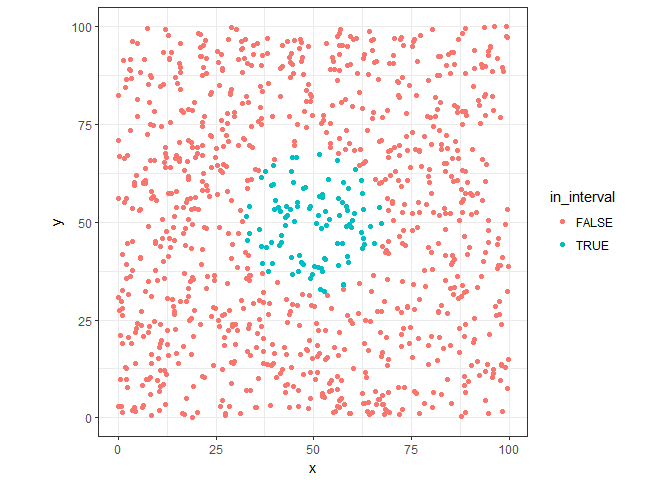
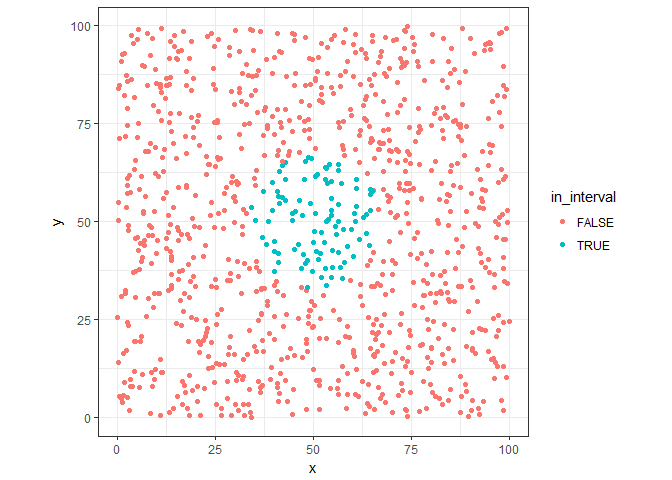
minor adjusts

diff --git a/Chapter01 - Intro/Course_of_Dimensionality.md b/Chapter01 - Intro/Course_of_Dimensionality.md
@@ -6,7 +6,7 @@ output:
     keep_md: true
 ---
 
-## Ond Dimension
+## One Dimension
 
 This R Notebook reproduces the _Course of Dimensionality_ that is defined as the increasing of the interval size to get 10% of the data acording with the increasing of dimentions. So acording more dimentions are add to the domain, greater is the size of the range to get the same proportion of datapoints. Conforming we increase the size of the range we lost "locality" of the information, losing the capacity to resume the information with a simple average.
 
@@ -47,7 +47,7 @@ x_dist
 
 ```
 ##      10% 
-## 9.233336
+## 9.743032
 ```
 
 We can see that in one dimention the size of the range necessary to get 10% of the datapoints are around 10% of this dimentions (uniform distributed)
@@ -81,12 +81,12 @@ dt %>%
 ```
 
 ```
-## [1] 94
+## [1] 103
 ```
 
 ## Two Dimension
 
-Now, lets see the case in two dimentions, firts we'll use the same interval found in one dimention case: ``9.2333364``, but in this case, we need to check points around ```(x=50, y=50)```.
+Now, lets see the case in two dimentions, firts we'll use the same interval found in one dimention case: ``9.7430323``, but in this case, we need to check points around ```(x=50, y=50)```.
 
 
 ```r
@@ -120,10 +120,10 @@ sel_points
 ```
 
 ```
-## [1] 32
+## [1] 34
 ```
 
-In fact, with the new distance, we can only reach 3.2 % of the datapoints adding one dimention. Can we find how much be the size of the radius to get 10% of the points?
+In fact, with the new distance, we can only reach 3.4 % of the datapoints adding one dimention. Can we find how much be the size of the radius to get 10% of the points?
 
 
 ```r
@@ -154,16 +154,17 @@ distCases %>%
   filter( pct <= .1 ) %>%
   filter( pct == max(pct) ) -> twoDim10pct
 
-twoDim10pct
+print(twoDim10pct)
 ```
 
-<div data-pagedtable="false">
-  <script data-pagedtable-source type="application/json">
-{"columns":[{"label":["dist"],"name":[1],"type":["int"],"align":["right"]},{"label":["points"],"name":[2],"type":["int"],"align":["right"]},{"label":["pct"],"name":[3],"type":["dbl"],"align":["right"]}],"data":[{"1":"18","2":"99","3":"0.099"}],"options":{"columns":{"min":{},"max":[10]},"rows":{"min":[10],"max":[10]},"pages":{}}}
-  </script>
-</div>
+```
+## # A tibble: 1 x 3
+##    dist points    pct
+##   <int>  <int>  <dbl>
+## 1    16     89 0.0890
+```
 
-The distance to get 10% of data points are 18 in size, almost twice the original range in one dimention.
+The distance to get 10% of data points are 16 in size, almost twice the original range in one dimention.
 
 
 ```r
@@ -180,7 +181,7 @@ ggplot(dt, aes(x=x, y=y, colour=in_interval)) +
   theme_bw()
 ```
 
-![](Course_of_Dimensionality_files/figure-html/unnamed-chunk-1-1.png)<!-- -->
+![](Course_of_Dimensionality_files/figure-html/twoDim20Pct-1.png)<!-- -->
 
 ## More dimentions
 
